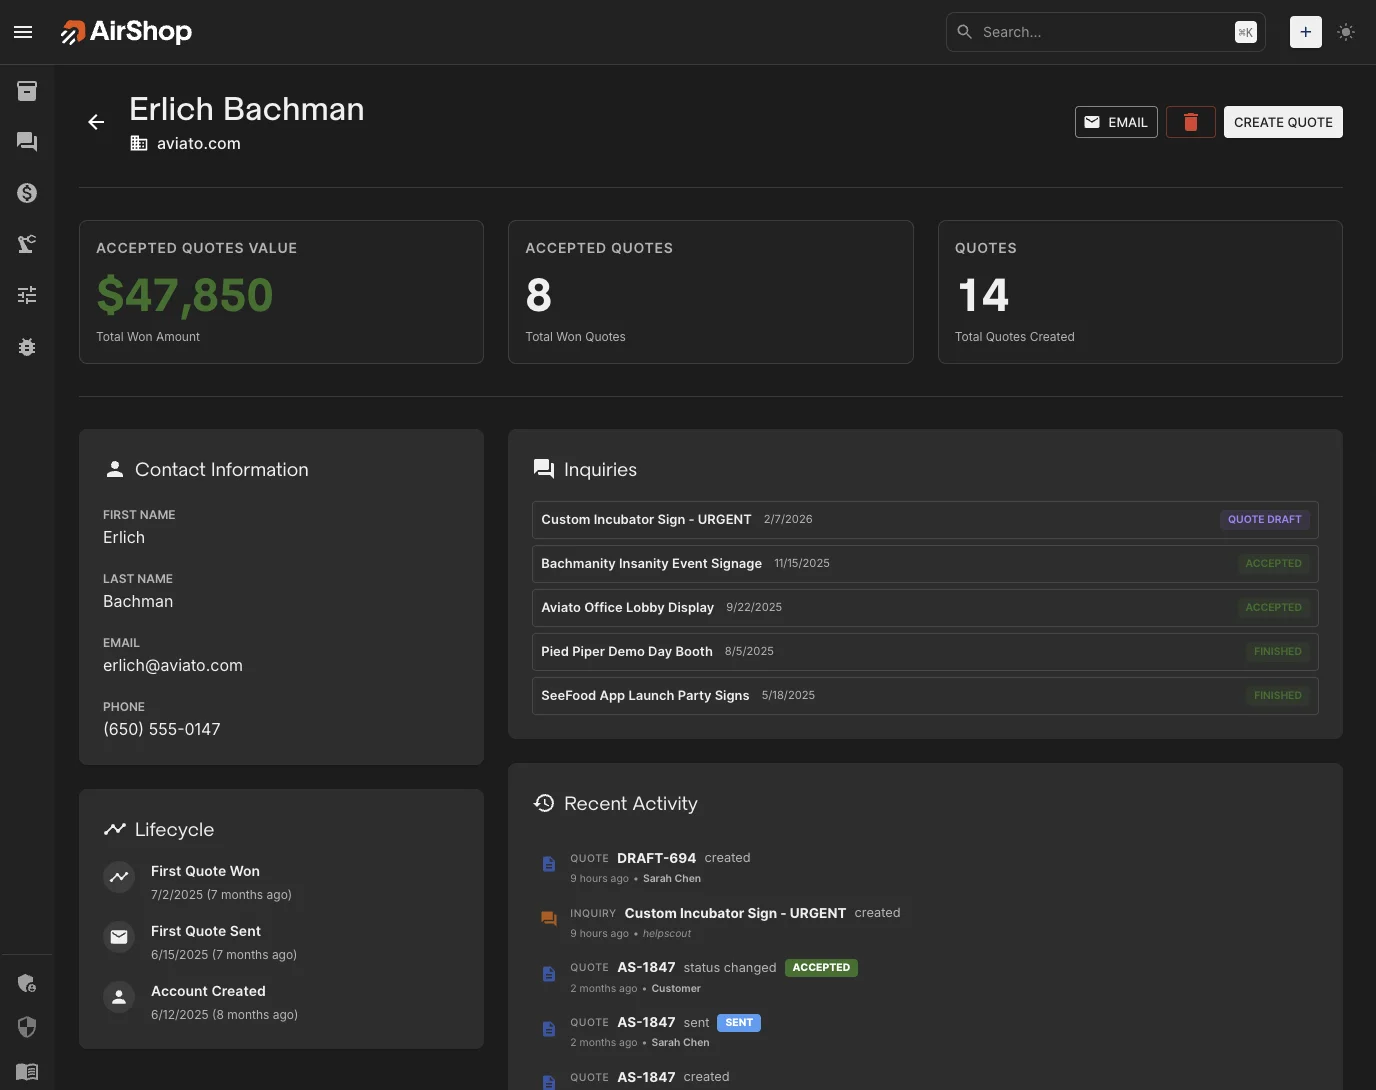
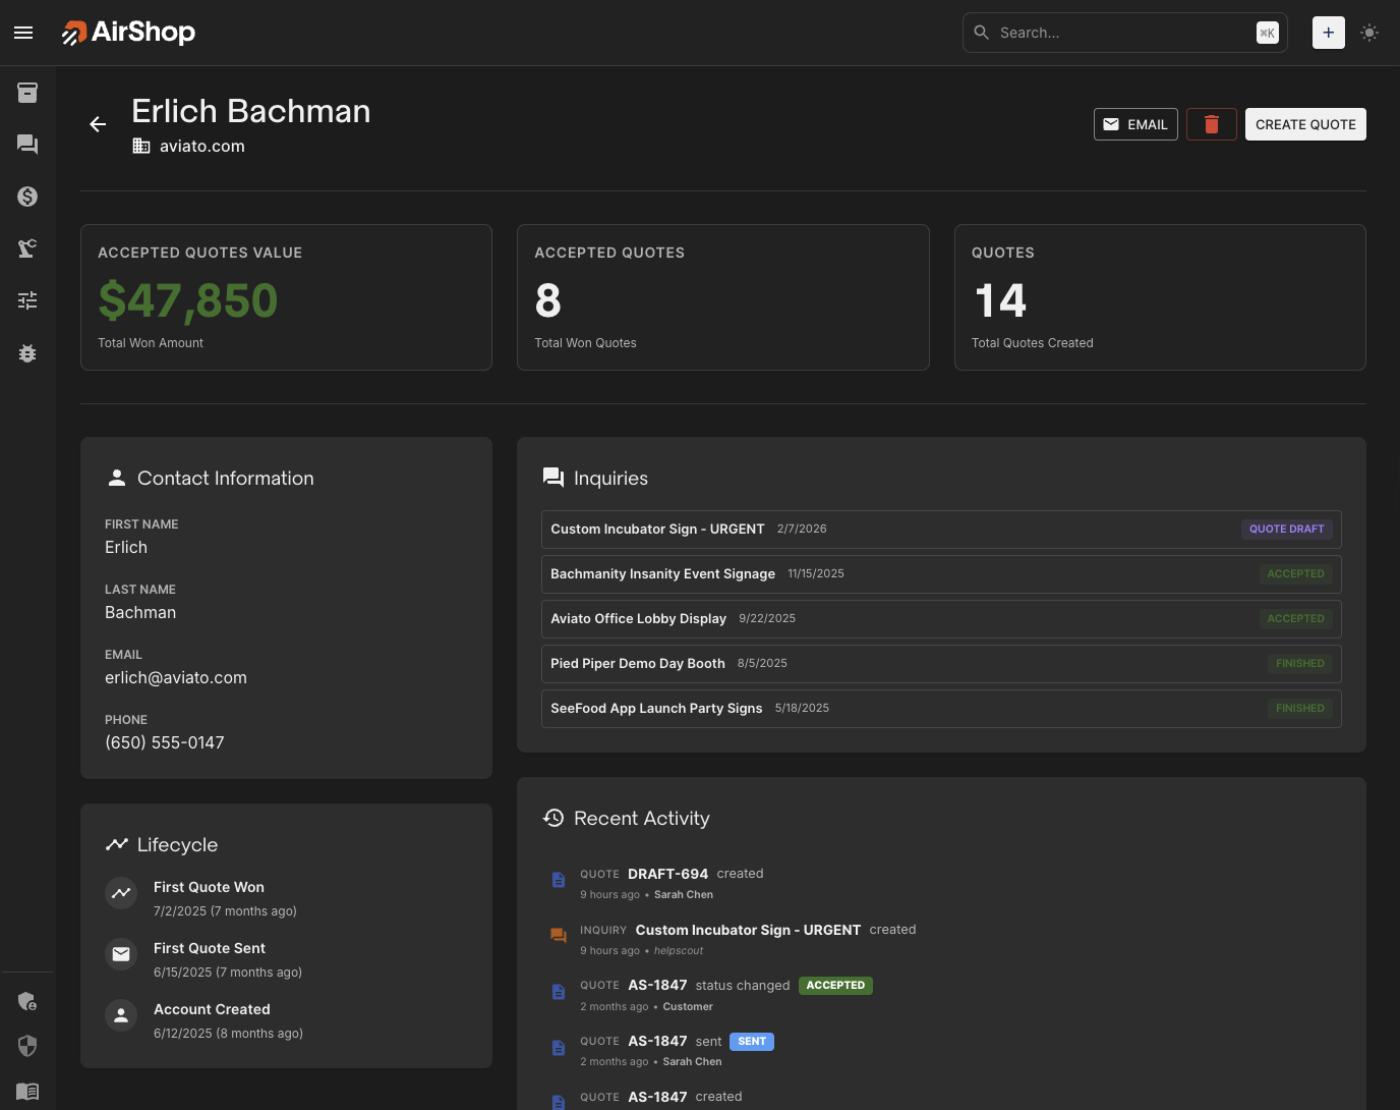
Update images for contact details and Help Scout integration, and adjust styles in index.html for improved layout and user experience.

diff --git a/index.html b/index.html
@@ -1337,7 +1337,7 @@
         
         .crm-heading {
             grid-area: heading;
-            font-size: 2.4rem;
+            font-size: 2.8rem;
             color: var(--light-gray);
             font-family: 'Action Sans', sans-serif;
             text-align: left;
@@ -1355,7 +1355,7 @@
         
         .crm-preview {
             grid-area: image;
-            height: 500px;
+            height: 600px;
             margin: 0;
         }
 
